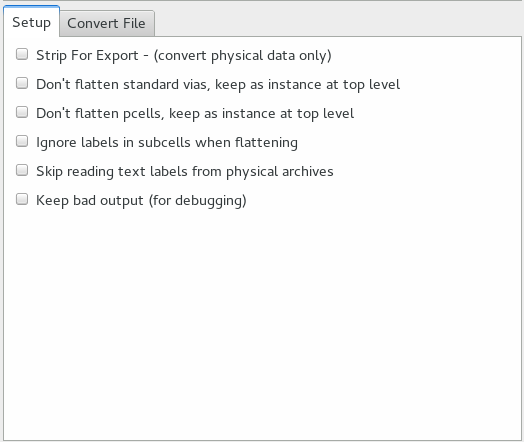
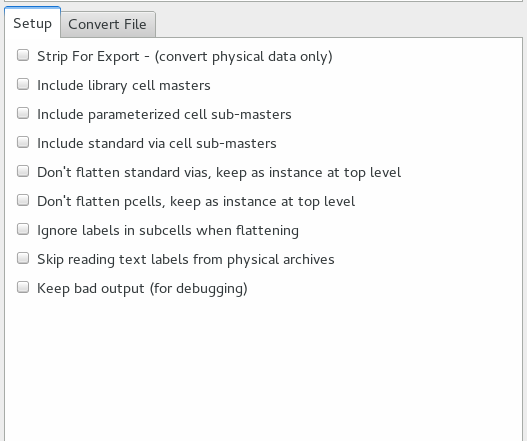
Final update of docs for xic-4.3.4.

Changed region(s): [[0.0, 0.0, 1.0, 1.0]]

diff --git a/xic/manual/cnvrtmenu.tex b/xic/manual/cnvrtmenu.tex
@@ -739,7 +739,7 @@ command.
 
 
 % -----------------------------------------------------------------------------
-% xic:exprt 020918
+% xic:exprt 022418
 \section{The {\cb Export Cell Data} Button: {\cb Export Control} Panel}
 \index{Export Cell Data button}
 
@@ -1020,7 +1020,7 @@ SkipInvisible} with the {\cb !set} command.
 When the {\cb Strip For Export} button is active, converted output
 will contain physical data only, and will contain no {\Xic}
 extensions.  Further, the {\cb Strip For Export} check box implicitly
-enables the same functionality as {\cb Include Library Cells} (see
+enables the same functionality as {\cb Include library cell masters} (see
 below), so that the file will not contain unresolved library cell
 references.  Additionally, parameterized cell and standard via
 sub-masters will be included in output, as if the corresponding check
@@ -1029,30 +1029,20 @@ checked when creating a file for use in generating photomasks.  Note
 that the electrical information can never be recovered from a stripped
 file.
 
-Within {\Xic}, archive file representations consist of two sequential
-records in each file.  The first record is the physical information,
-and the second record contains the electrical information.  These
-files should be compatible with other CAD systems, as these files are
-generally expected to have only one record, and consequently the
-electrical information may be ignored.  However, one should not count
-on this.  When the {\cb Strip For Export} button is active, {\Xic}
-will convert only the physical information when explicitly (i.e.,
-using the operations from the {\cb Export Control} panel, and not
-the {\cb Save} and {\cb Save As} buttons) converting to an archive
-format.  The {\cb Strip For Export} setting also applies to the {\vt
-ToArchive}, script function.  This creates a file which should be an
-absolutely conventional physical layout file.
-
 This mode can also be enabled by setting the boolean variable {\et
 StripForExport} with the {\cb !set} command.  The variable tracks the
 state of the check box.
 
-\item{\cb Include Library Cells}\\
-When checked, cells with the LIBRARY flag set are written to the
-output file.  Ordinarily, these cells are expected to be resolved
-through the library mechanism and are not written to the output file.
+\item{\cb Include library cell masters}\\
+If the input file references library cells (which have the LIBRARY
+flag set) whose masters are not found in the file, then these masters
+are not written to output unless this box is checked.  With the box
+not checked, the output file will require the referenced library be
+preesent and open when the file is read into {\Xic} (the same
+requirement as the input file).  With the box checked, the masters are
+written to the output file, which will therefor not need the library.
 
-This tracks the state of the {\et WriteAllCells} variable.
+This tracks the state of the {\et KeepLibMasters} variable.
 
 \item{\cb Include parameterized cell sub-masters}\\
 When this check box is checked, output saved to disk files will
@@ -1811,7 +1801,7 @@ that using post-filtering only.
 
 
 % -----------------------------------------------------------------------------
-% xic:convt 020918
+% xic:convt 022418
 \section{The {\cb Format Conversion} Button: {\cb Format Conversion} Panel}
 \index{Format Conversion button}
 \index{Format Conversion}
@@ -1972,12 +1962,80 @@ conversion.  These options are described below.
 \begin{description}
 \item{\cb Strip For Export}\\
 When the {\cb Strip For Export} button is active, converted output
-will contain physical data only, and will contain no {\Xic}
-extensions.  The {\cb Strip For Export} box should be checked when
-creating an export file for use in generating photomasks.  Note that
-the electrical information can never be recovered from a stripped
+will contain physical data only, and all masters, and will contain no
+{\Xic} extensions.  The {\cb Strip For Export} box should be checked
+when creating an export file for use in generating photomasks.  Note
+that the electrical information can never be recovered from a stripped
 file.  The check box tracks the state of the {\et StripForExport}
 variable.
+
+This mode can also be enabled by setting the boolean variable {\et
+StripForExport} with the {\cb !set} command.  The variable tracks the
+state of the check box.
+
+\item{\cb Include library cell masters}\\
+If the input file references library cells (which have the LIBRARY
+flag set) whose masters are not found in the file, then these masters
+are not written to output unless this box is checked.  With the box
+not checked, the output file will require the referenced library be
+preesent and open when the file is read into {\Xic} (the same
+requirement as the input file).  With the box checked, the masters are
+written to the output file, which will therefor not need the library.
+
+This tracks the state of the {\et KeepLibMasters} variable.
+
+\item{\cb Include parameterized cell sub-masters}\\
+When this check box is checked, output saved to disk files will
+include sub-master cells.  Ordinarily, sub-master cells are not
+included, as they will be re-created when the file is read.  However,
+when exporting to a system that does not support the pcells in use,
+the sub-masters must be written if the file is to have any value. 
+With the sub-masters present, the cells/instances will look like
+normal cell placements.
+
+This applies when writing all output, {\bf except} when using the {\cb
+Save} and {\cb Save As} buttons in the {\cb File Menu}, and the
+equivalent text accelerators and including the prompts when exiting
+the program.  It is also ignored when using the {\vt Save} script
+function.
+
+%\ifoa
+{\Xic} native pcells are only supported in {\Xic}.  OpenAccess-based
+pcells might be supported by other systems, that is certainly the
+intent of the Ciranova PyCells.  Even if another system supports the
+OpenAccess PyCells, it may not have the logic to rebuild the pcells
+coming from a GDSII or other file source.  In that case one will
+probably have to ship the OpenAccess library files.
+%\fi
+
+The {\et StripForExport} variable and the equivalent check box will
+have the same effect when set.
+
+The {\et PCellKeepSubMasters} variable tracks the state of this check
+box.
+
+\item{\cb Include standard via cell sub-masters}\\
+When checked, standard via cell sub-masters are included in the output
+file.  This will be required when sending output to another system, as
+this implementation is specific to {\Xic}.
+%\ifoa
+An exception may be systems that share an OpenAccess database with
+{\Xic}.  If the cells are written to the OpenAccess database, the
+standard vias should translate properly, and be recognized by other
+tools (e.g., Virtuoso) that share the database.
+%\fi
+
+This applies when writing all output, {\bf except} when using the {\cb
+Save} and {\cb Save As} buttons in the {\cb File Menu}, and the
+equivalent text accelerators and including the prompts when exiting
+the program.  It is also ignored when using the {\vt Save} script
+function.
+
+The {\et StripForExport} variable and the equivalent check box will
+have the same effect when set.
+
+The {\et ViaKeepSubMasters} variable tracks the state of this check
+box.
 
 \item{\cb Don't flatten standard vias, keep as instance at top level}\\
 This mode may apply when flattening a physical cell hierarchy.  When

diff --git a/xic/manual/variables.tex b/xic/manual/variables.tex
@@ -267,7 +267,7 @@ follow.
 % 020918
 \multicolumn{2}{|c|}{\kb Convert Menu -- Output}\\ \hline
 \et StripForExport & Strip all format extensions from output file\\ \hline
-\et WriteAllCells & Write library cells when creating archive file\\ \hline
+\et KeepLibMasters & Write library cells when creating archive file\\ \hline
 \et SkipInvisible & Do not write invisible layers to output\\ \hline
 \et NoCompressContext & Don't compress instance lists in archive context\\
   \hline
@@ -3367,7 +3367,7 @@ of the variables.
 \bf Variable          & \bf Set From              & \bf Notes\\ \hline
 \et StripForExport & {\cb Format Conversion} and {\cb Export Control} & 4\\
   \hline
-\et WriteAllCells     & \cb Export Control        & 3\\ \hline
+\et KeepLibMasters    & \cb Export Control        & 3\\ \hline
 \et SkipInvisible     & \cb Export Control        & 3\\ \hline
 \et KeepBadArchive    &                           & 1\\ \hline
 \et NoCompressContext &                           & 5\\ \hline
@@ -3425,18 +3425,19 @@ data.}
 \end{enumerate}
 
 \begin{description}
-% 022916
+% 022418
 \index{StripForExport variable}
 \item{\et StripForExport}\\
 {\bf Value:} boolean.\\
 When this variable is set, files produced through the {\cb Export
 Control} and {\cb Format Conversion} panels will contain the basic
 syntax elements with no extensions.  Thus, they contain physical data
-only.  The {\et StripForExport} variable actually applies when writing
-all output, {\bf except} when using the {\cb Save} and {\cb Save As}
+only.  The {\et StripForExport} variable applies when writing all
+output, {\bf except} when using the {\cb Save} and {\cb Save As}
 buttons in the {\cb File Menu}, and the equivalent text accelerators
 and including the prompts when exiting the program.  It is also
-ignored when using the {\vt Save} script function.
+ignored when using the {\vt Save} script function, but applies in the
+{\vt ToArchive} script function.
 
 Within {\Xic}, archive file representations consist of two sequential
 records in each file.  The first record is the physical information,
@@ -3444,15 +3445,13 @@ and the second record contains the electrical information.  These
 files should be compatible with other CAD systems, as these files are
 generally expected to have only one record, and consequently the
 electrical information may be ignored.  However, one should not count
-on this.  When this variable is set, {\Xic} will write only the
-physical information when explicitly (i.e., using the operations from
-the {\cb Export Control} panel, and not the {\cb Save} and {\cb Save
-As} buttons) writing to an archive format.  This produces a file which
-should be an absolutely conventional physical layout file.
+on this.  When in effect, only the physical record is output.  This
+produces a file which should be an absolutely conventional physical
+layout file.
 
 Additionally, when {\et StripForExport} is set, and when writing out a
 hierarchy from the main database, all cells in the hierarchy will be
-written, whether or not the {\et WriteAllCells} variable is set. 
+written, whether or not the {\et KeepLibMasters} variable is set. 
 Thus, the file will not contain unsatisfied cell references, as
 (physical) library cells will be included.  Further, all referenced
 pcell and standard via sub-masters will be written to output, similar
@@ -3467,8 +3466,8 @@ generating photomasks.  Note that the electrical information can never
 be recovered from a stripped file.
 
 % 022816
-\index{WriteAllCells variable}
-\item{\et WriteAllCells}\\
+\index{KeepLibMasters variable}
+\item{\et KeepLibMasters}\\
 {\bf Value:} boolean.\\
 When writing an archive file from a hierarchy in the main database,
 cells in the hierarchy that were opened through the library mechanism

diff --git a/xic/manual/cellmenu.tex b/xic/manual/cellmenu.tex
@@ -400,7 +400,7 @@ can not be modified or renamed.  The LIBRARY flag indicates that the
 cell was read through the library mechanism.  Cells with the LIBRARY
 flag set are not included when writing output, unless the {\cb Include
 Library Cells} check box in the {\cb Export Control} panel is
-active, or equivalently the {\et WriteAllCells} variable is set.
+active, or equivalently the {\et KeepLibMasters} variable is set.
 
 Cells read into the database through the library mechanism will have
 both the IMMUTABLE and LIBRARY flags set.  The panel that appears when

diff --git a/xic/manual/filetool.tex b/xic/manual/filetool.tex
@@ -261,7 +261,7 @@ OasPrintOffset\\ \hline
 
 \multicolumn{2}{|c|}{\bf Conversion - Export Commands}\\ \hline
 \et StripForExport\newline
-WriteAllCells\newline
+KeepLibMasters\newline
 SkipInvisible\newline
 KeepBadArchive\newline
 NoCompressContext\newline
